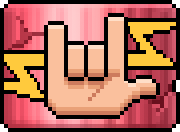
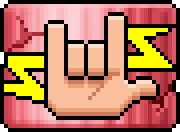
[추가] 피버 블럭 좌우 반전 이미지 적용 [수정] 블럭 이미지 파일 구하는 함수 RSPBlock 클래스로 이동

diff --git a/Classes/game/object/RSPBlock.cpp b/Classes/game/object/RSPBlock.cpp
@@ -12,6 +12,26 @@
 USING_NS_CC;
 using namespace std;
 
+string RSPBlock::getBlockImageFile(RSPType type, bool flippedX) {
+    
+    switch( type ) {
+        case RSPType::ROCK:          return DIR_IMG_GAME + "RSP_block_rock.png";
+        case RSPType::SCISSORS:      return DIR_IMG_GAME + "RSP_block_scissors.png";
+        case RSPType::PAPER:         return DIR_IMG_GAME + "RSP_block_paper.png";
+        case RSPType::ROCK_N_ROLL:
+            if( flippedX ) {
+                return DIR_IMG_GAME + "RSP_block_fever.png";
+            } else {
+                return DIR_IMG_GAME + "RSP_block_fever2.png";
+            }
+        default:
+            CCASSERT(false, "UIHelper::getBlockImageFile error: invalid rsp type.");
+            break;
+    }
+    
+    return "";
+}
+
 RSPType RSPBlock::getRandomType() {
     
     int ran = arc4random() % 3;
@@ -65,13 +85,15 @@ bool RSPBlock::init(RSPType type) {
 void RSPBlock::setBlock(RSPType type) {
     
     this->type = type;
-    setTexture(UIHelper::getBlockImageFile(type));
     
+    // 락앤롤만 flip
     if( type == RSPType::ROCK_N_ROLL ) {
         int ran = arc4random() % 2;
-        setFlippedX(ran == 0);
+        bool flippedX = (ran == 0);
+        setTexture(getBlockImageFile(type, flippedX));
+        
     } else {
-        setFlippedX(false);
+        setTexture(getBlockImageFile(type));
     }
 }
 

diff --git a/Classes/ui/UIHelper.cpp b/Classes/ui/UIHelper.cpp
@@ -16,21 +16,6 @@ const Size ButtonSize::SMALL              = Size(200, 80);
 const Size ButtonSize::MEDIUM             = Size(250, 80);
 const Size ButtonSize::LARGE              = Size(300, 80);
 
-string UIHelper::getBlockImageFile(RSPType type) {
-    
-    switch( type ) {
-        case RSPType::ROCK:          return DIR_IMG_GAME + "RSP_block_rock.png";
-        case RSPType::SCISSORS:      return DIR_IMG_GAME + "RSP_block_scissors.png";
-        case RSPType::PAPER:         return DIR_IMG_GAME + "RSP_block_paper.png";
-        case RSPType::ROCK_N_ROLL:   return DIR_IMG_GAME + "RSP_block_fever.png";
-        default:
-            CCASSERT(false, "UIHelper::getBlockImageFile error: invalid rsp type.");
-            break;
-    }
-    
-    return "";
-}
-
 string UIHelper::getButtonImageFile(RSPType type) {
     
     switch( type ) {

diff --git a/Classes/ui/UIHelper.hpp b/Classes/ui/UIHelper.hpp
@@ -31,7 +31,6 @@ struct ButtonSize {
  */
 class UIHelper {
 public:
-    static std::string getBlockImageFile(RSPType type);
     static std::string getButtonImageFile(RSPType type);
     
     static cocos2d::Color3B getColor(RSPType type);

diff --git a/Classes/game/object/RSPBlock.hpp b/Classes/game/object/RSPBlock.hpp
@@ -17,6 +17,7 @@
 
 class RSPBlock : public cocos2d::Sprite {
 public:
+    static std::string getBlockImageFile(RSPType type, bool flippedX = false);
     static RSPType getRandomType();
     
 public:
